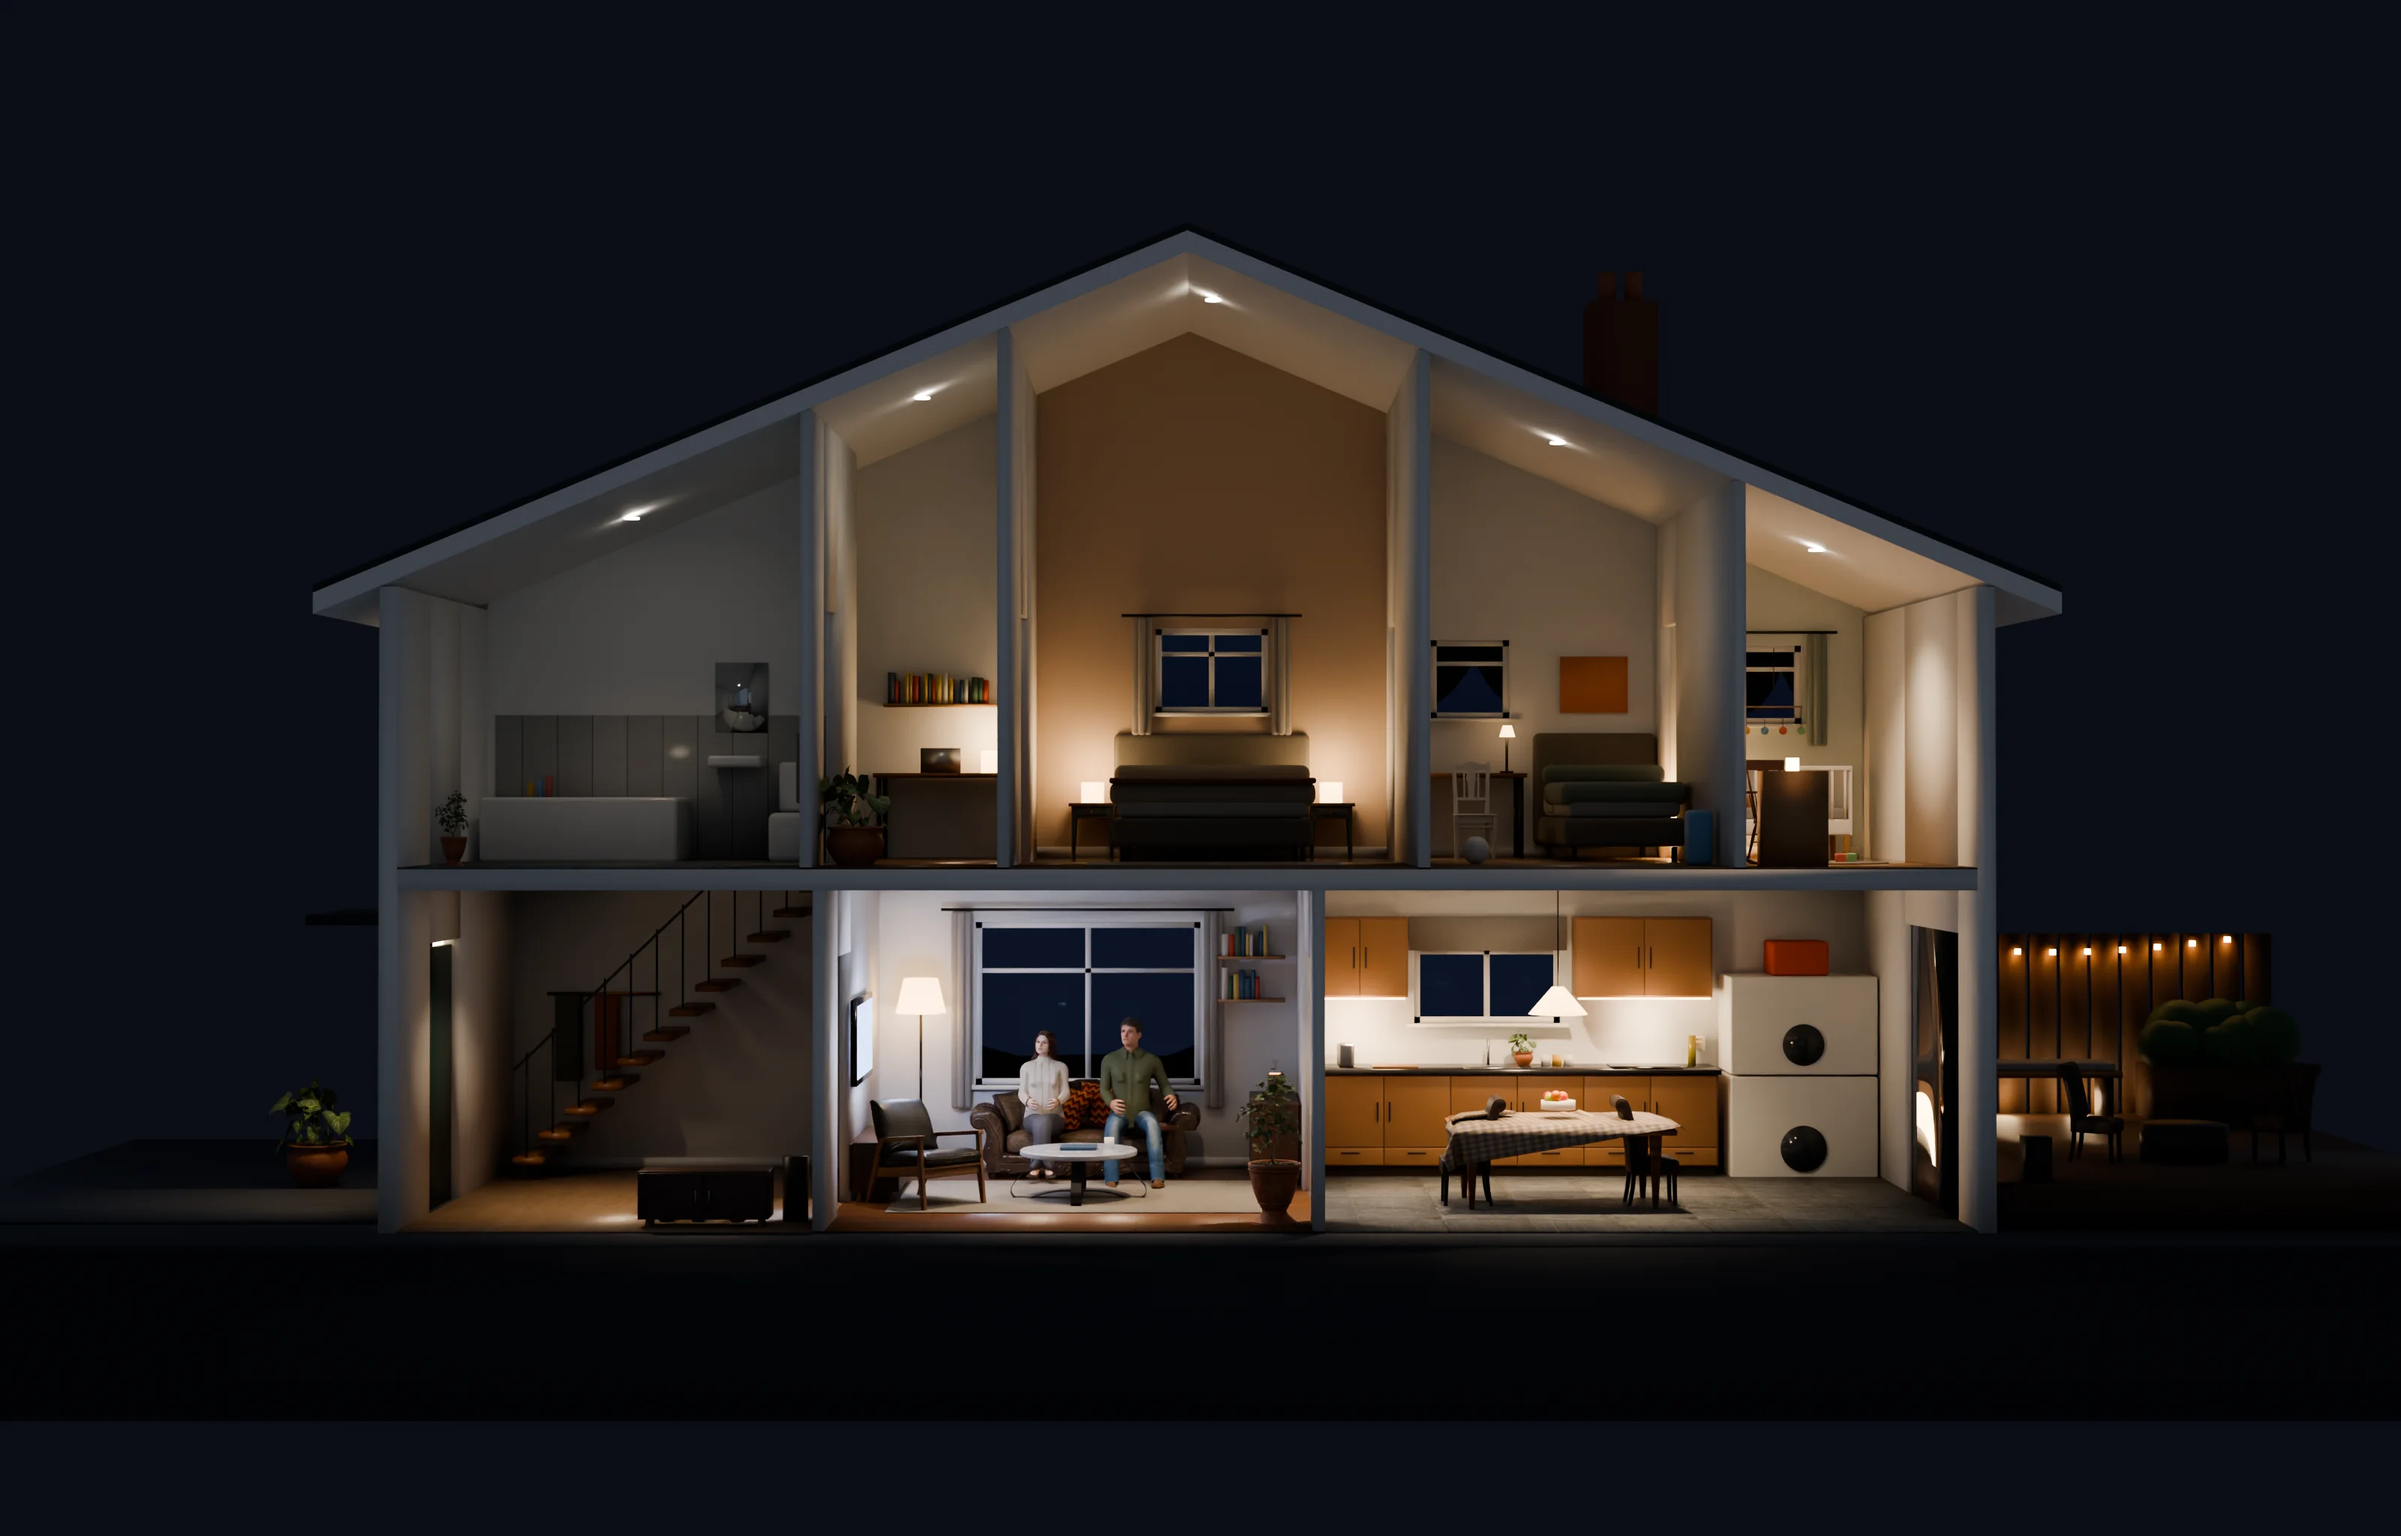
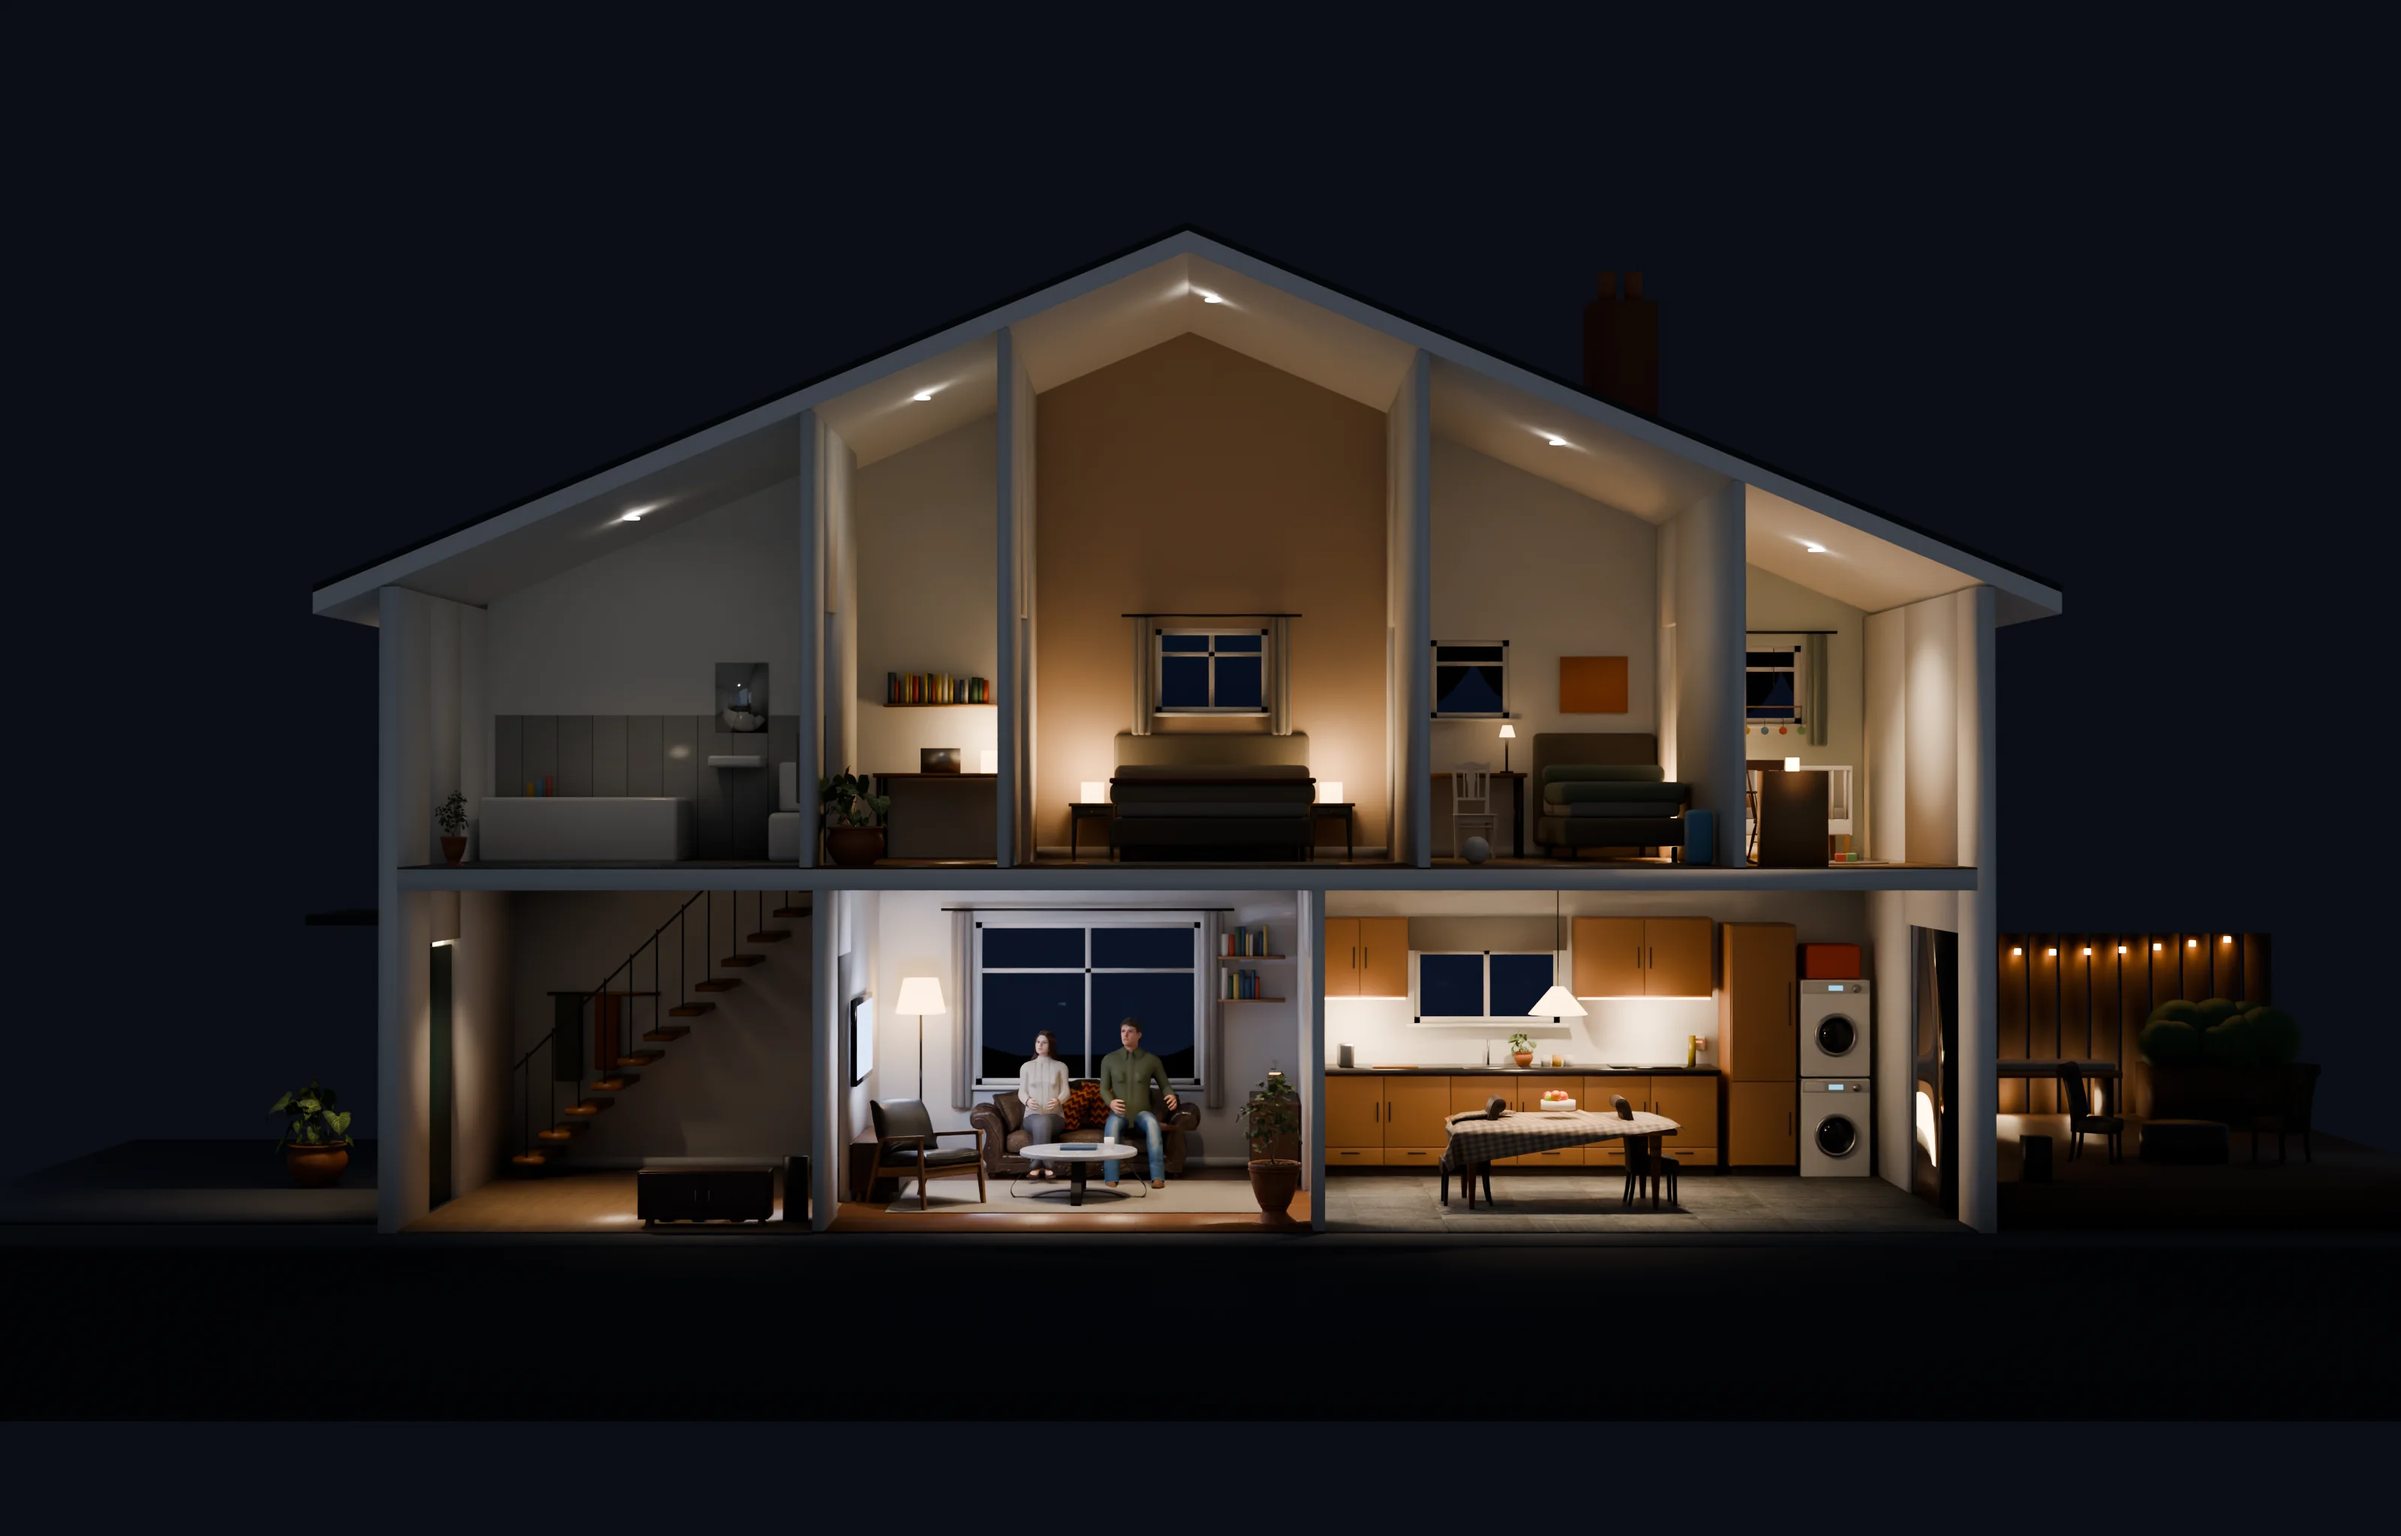
A day with Adam: a real washer and dryer, and Gran sitting on the floor after her fall

Changed region(s): [[0.6875, 0.5938, 0.7812, 0.7812]]

diff --git a/day.js b/day.js
@@ -5,7 +5,7 @@
   var SMALL = Math.min(window.innerWidth, window.innerHeight) < 820;
   // where each moment happens in the cutaway render (render/cutaway.py writes these to cut_pts.json)
   var P = {
-    kit: [0.70, 0.66], door: [0.155, 0.6889], hob: [0.6849, 0.6946], fall: [0.4002, 0.7726], cot: [0.7388, 0.5153]
+    kit: [0.70, 0.66], door: [0.155, 0.6889], hob: [0.6849, 0.6946], fall: [0.3947, 0.7542], cot: [0.7388, 0.5153]
   };
   var OUTS = {
     s1: ['Maya is up. Dan sleeps on.', 'Dan is up. Maya sleeps on.'], s2: ['Theo has it.'], s3: ['Gran has been reminded.', 'Maya has been told.'],
@@ -43,7 +43,7 @@
   var cam = document.createElement('div'); cam.className = 'day-cam day-strip'; scroller.appendChild(cam);
   var panels = S.map(function () { var d = document.createElement('div'); d.className = 'day-panel'; cam.appendChild(d); return d; });
   var imgs = S.map(function (s, i) {
-    var im = document.createElement('img'); im.src = (SMALL ? s.img.replace(/^\.\.\//, '../sm/').replace(/^s/, 'sm/s') : s.img) .replace(/^/, 'day/story/') + '.webp?v=11'; im.className = 'day-img'; im.decoding = 'async'; if (i) im.loading = 'lazy';
+    var im = document.createElement('img'); im.src = (SMALL ? s.img.replace(/^\.\.\//, '../sm/').replace(/^s/, 'sm/s') : s.img) .replace(/^/, 'day/story/') + '.webp?v=12'; im.className = 'day-img'; im.decoding = 'async'; if (i) im.loading = 'lazy';
     im.alt = i === 0 ? 'A cutaway of a two-storey family home, with Adam on the living-room sideboard' : ''; if (i) im.setAttribute('aria-hidden', 'true');
     panels[i].appendChild(im); return im;
   });

diff --git a/index.html b/index.html
@@ -204,7 +204,7 @@
   <script src="inside/data.js?v=3"></script>
   <script src="inside.js?v=31"></script>
   <script src="family.js?v=38"></script>
-  <script src="day.js?v=41"></script>
+  <script src="day.js?v=42"></script>
   <script src="works.js?v=15"></script>
   <script src="motion.js?v=6"></script>
   <script defer src="https://static.cloudflareinsights.com/beacon.min.js" data-cf-beacon='{"token": "fa91610f67df4fe6930c70fdb61ca0b7"}'></script>
